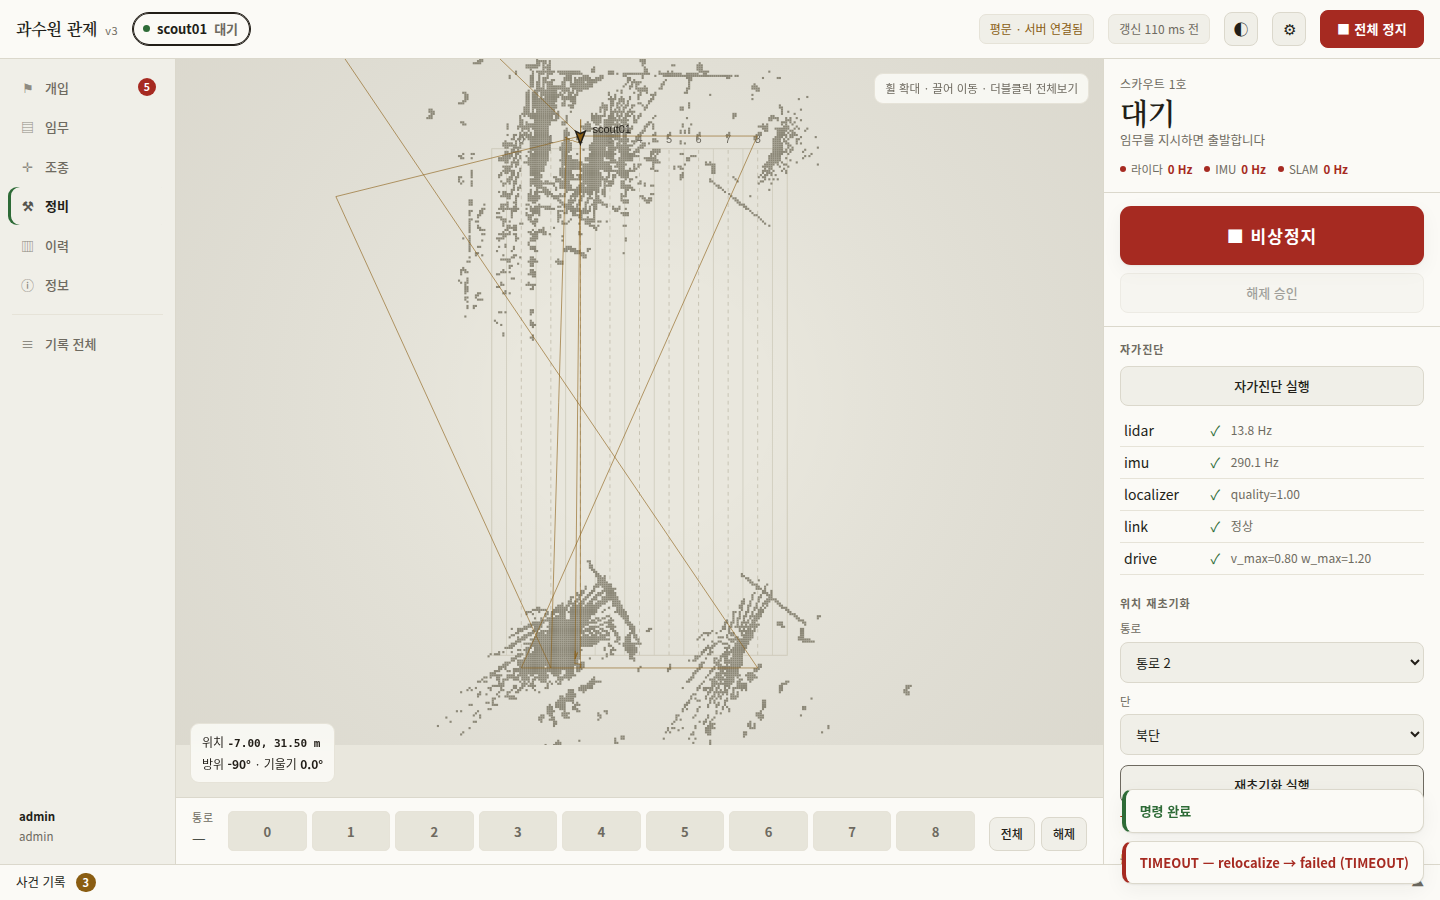
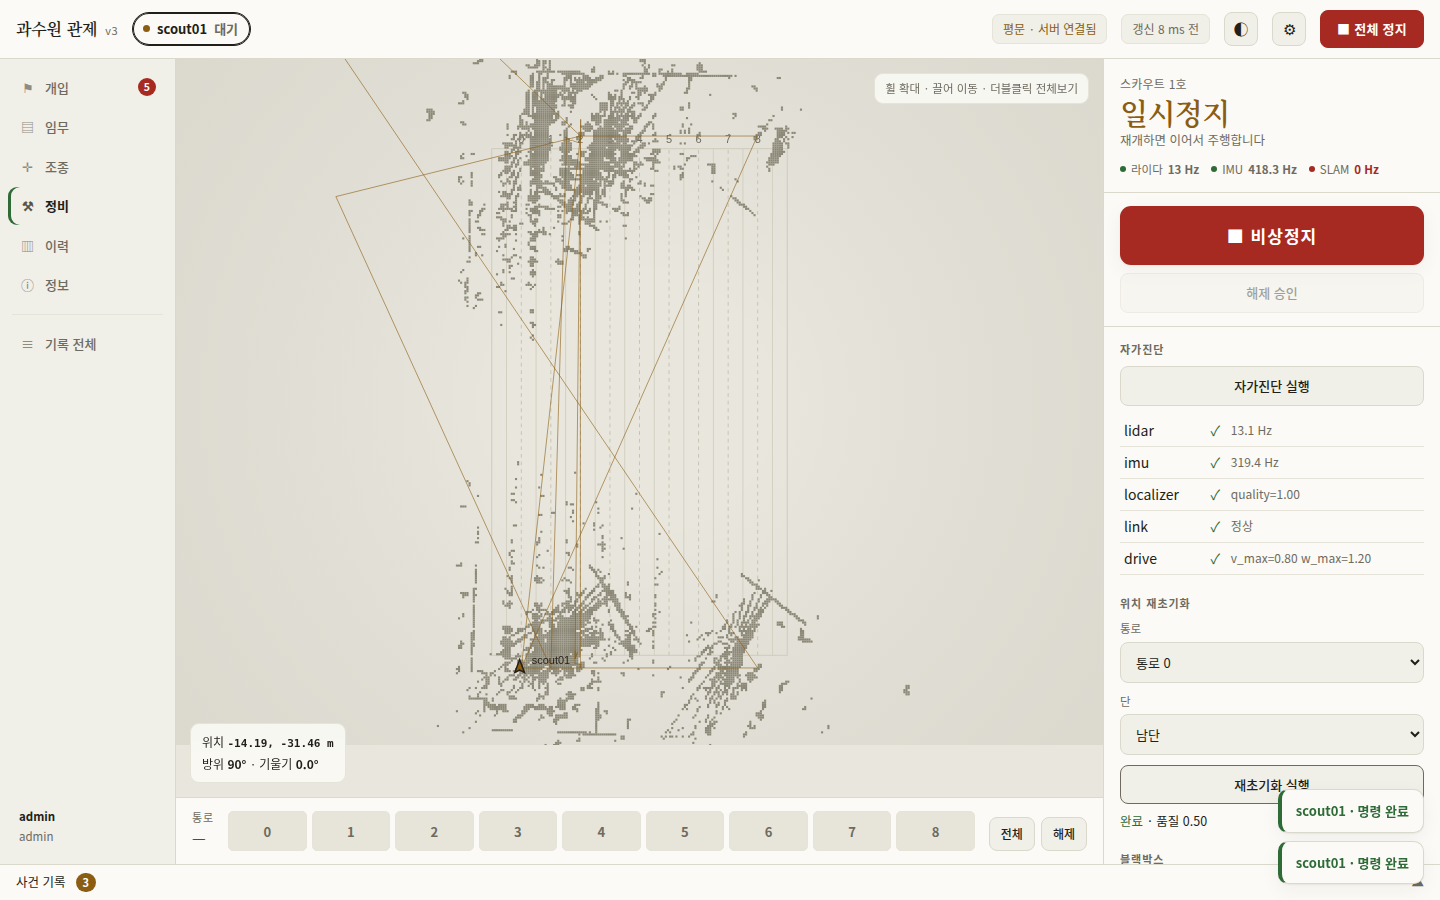
대시보드 리뷰 수정 1 — cmd_result 오귀속 가드(로봇 전환 시 카드 보호)
pending 이 들고 있는 robot 이 지금 화면(selKey)과 다르면 유지보수 카드는
건드리지 않고 토스트만 낸다(로봇 이름 표기). relocalize 성공 왕복을 실기로
확인(통로0 남단, quality 0.50)하고 스크린샷을 갱신.

diff --git a/server/web/index.html b/server/web/index.html
@@ -873,8 +873,10 @@ function sendCmd(robotId, action, payload) {
   const entry = {robot: robotId, cmd: action};
   entry.timer = setTimeout(() => {
     if (!pending.delete(cmd_id)) return;      // 이미 결과를 받았으면 아무것도 안 한다
-    toast("응답 없음", "err");
-    maintTimeout(action);
+    toast(`${robotId} · 응답 없음`, "err");
+    // 화면이 그새 다른 로봇으로 넘어갔으면 지금 보이는 카드는 그 로봇 것이 아니다 —
+    // 건드리지 않는다(리뷰 지적: 오귀속 방지).
+    if (robotId === selKey) maintTimeout(action);
   }, PENDING_TIMEOUT_MS);
   pending.set(cmd_id, entry);
   SRV.send(JSON.stringify({type: "cmd", action, robot: robotId,
@@ -908,8 +910,13 @@ function handleCmdResult(e) {
   clearTimeout(p.timer);
   pending.delete(e.cmd_id);
   const ok = !["rejected", "failed"].includes(e.status);
-  toast(ok ? "명령 완료" : `${e.code || "오류"} — ${e.data?.reason || e.msg || ""}`,
+  const who = `${p.robot} · `;         // 화면을 다른 로봇으로 넘긴 뒤에도 토스트만으로 출처를 알 수 있게
+  toast(ok ? `${who}명령 완료` : `${who}${e.code || "오류"} — ${e.data?.reason || e.msg || ""}`,
         ok ? "ok" : "err");
+  // 유지보수 카드는 지금 화면에 뜬 로봇(selKey) 것일 때만 건드린다 — 명령을 보낸
+  // 뒤 다른 로봇으로 화면을 돌렸다면, 그 카드는 이미 다른 로봇의 자리다(리뷰
+  // 지적: cmd_result 오귀속 — pending 이 들고 있는 robot 으로 가드한다).
+  if (p.robot !== selKey) return;
   // 유지보수 카드의 표시는 여기서 cmd 이름으로 분기한다(공통 토스트와 별개).
   if (e.cmd === "self_test") renderSelfTest(e);
   else if (e.cmd === "relocalize") renderReloc(e);
